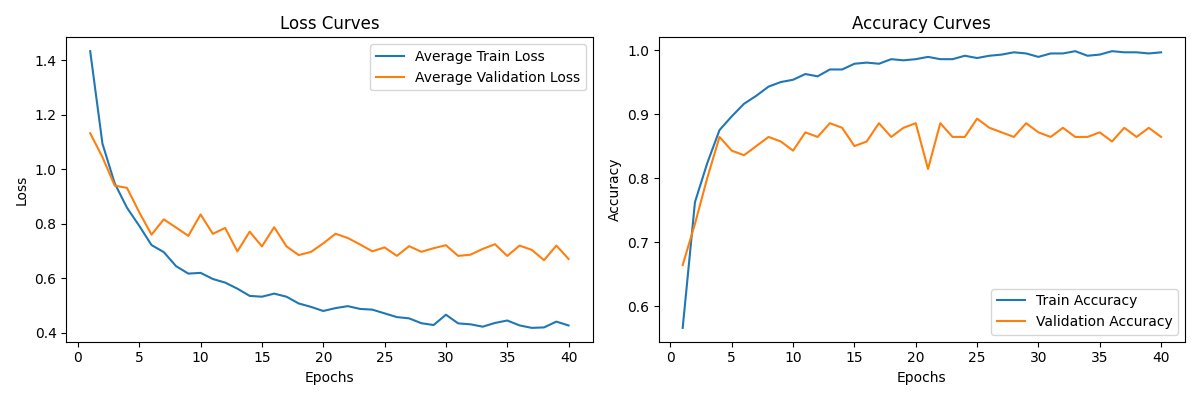
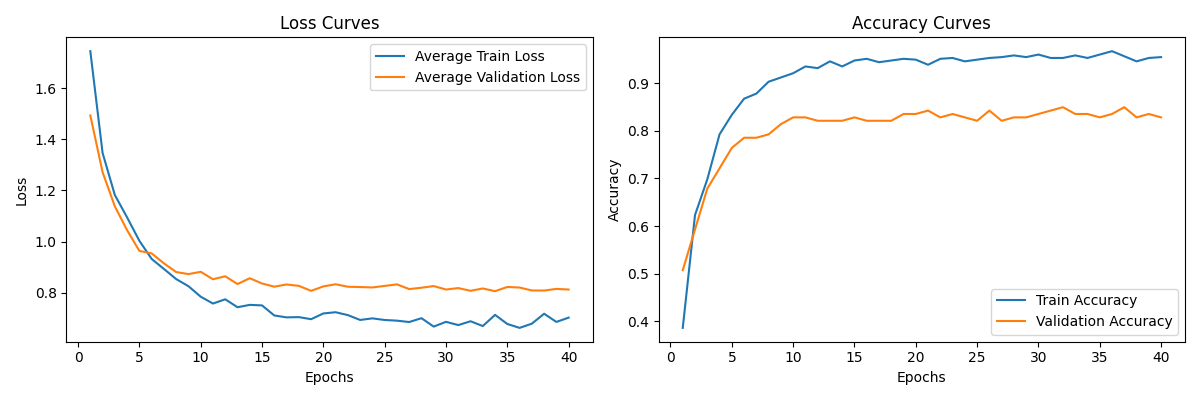
Update

diff --git a/src/handetect/configs.py b/src/handetect/configs.py
@@ -8,11 +8,11 @@ from torchvision.models import squeezenet1_0, SqueezeNet1_0_Weights
 from torchvision.models import squeezenet1_0
 # Constants
 RANDOM_SEED = 123
-BATCH_SIZE = 32
+BATCH_SIZE = 16
 NUM_EPOCHS = 40
-LEARNING_RATE = 0.00017588413773574044
+LEARNING_RATE = 5.488903014780378e-05
 STEP_SIZE = 10
-GAMMA = 0.9
+GAMMA = 0.3
 DEVICE = torch.device("cuda:0" if torch.cuda.is_available() else "cpu")
 NUM_PRINT = 100
 TASK = 1
